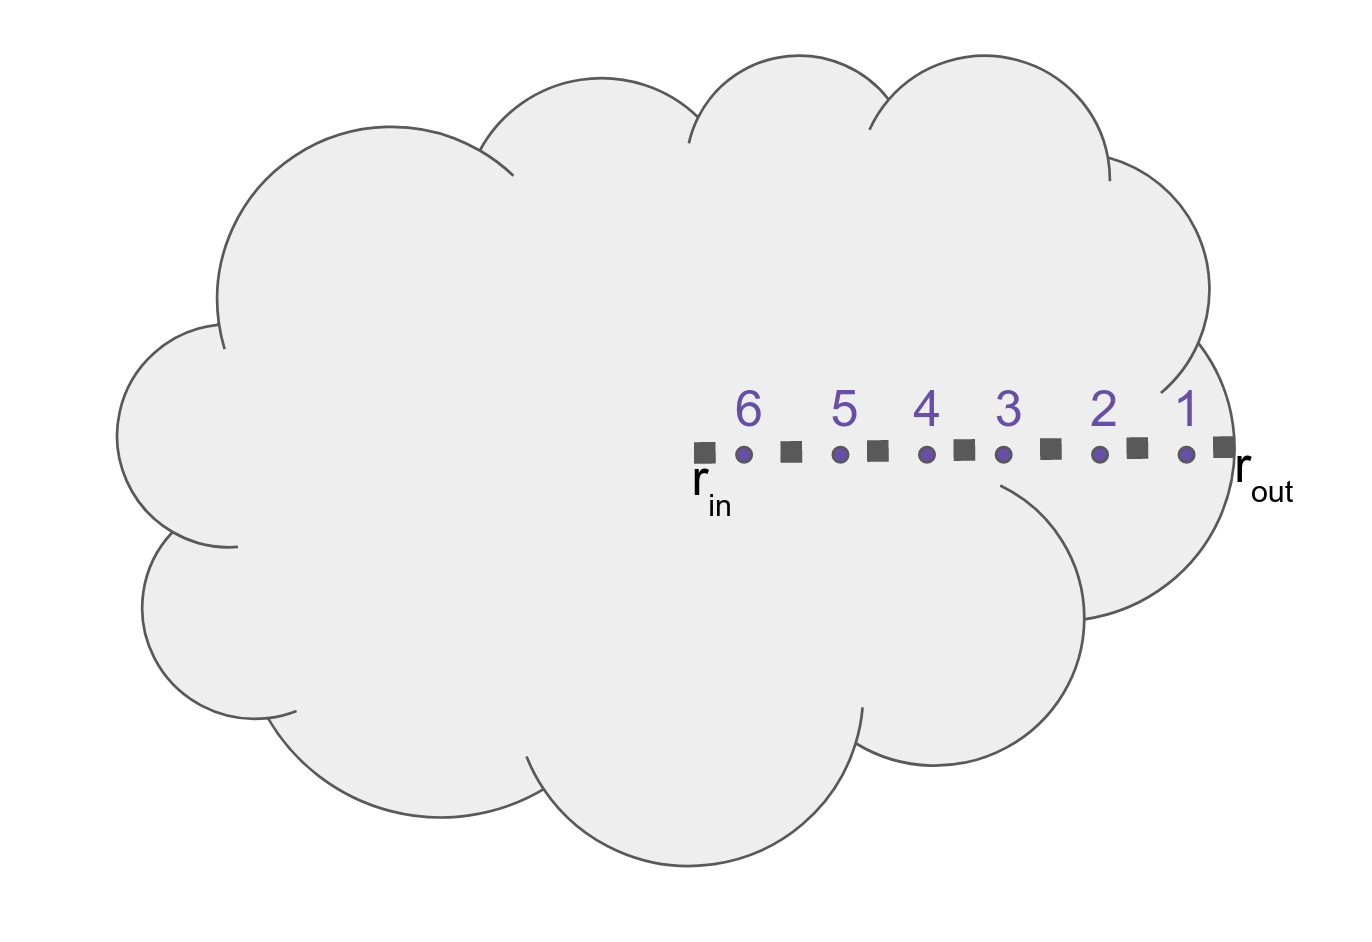
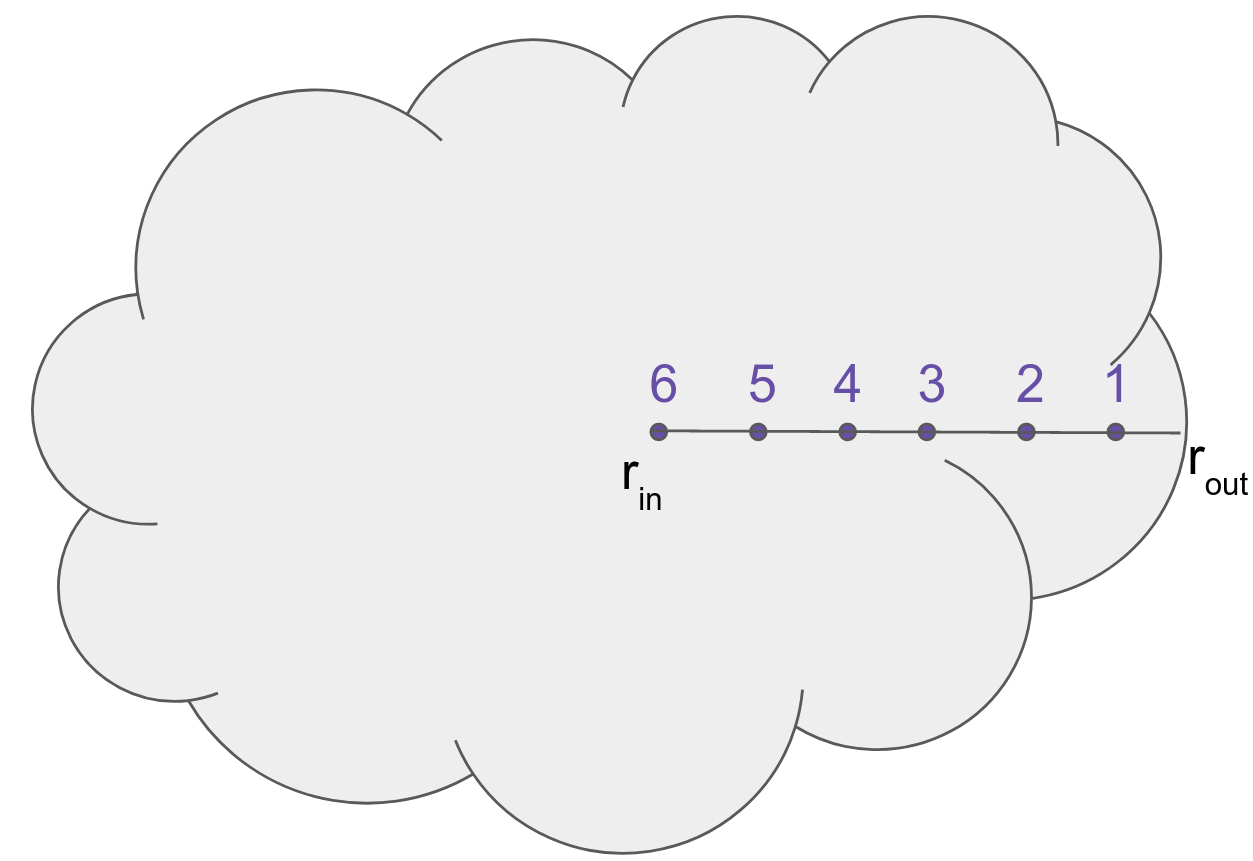
Monica updates

diff --git a/website/docs/physics-core.md b/website/docs/physics-core.md
@@ -6,11 +6,11 @@ title: Core Physics
 Each of the other physics doc pages details the specifics of a particular physics model. This one gives a general overview of the physics in UCLCHEM, including the core physics routines that are called for all models.
 
 ## Model dimensions
-Whilst it is most often used to model a single point, UCLCHEM is a 1D model. For most models, you provide the size of some cloud of gas (`rout`) and the number of positions along a 1D cut through this cloud you'd like to model (`points`). UCLCHEM then divides the cloud up into the required number of equally sized segments and then models a point at the centre of each segment. In the image below, the user has specified that they would like to model six points between some rin and rout. The space between the black squares are the six equally sized boxes that UCLCHEM splits the cloud into and the purple circles indicate the exact point where the chemistry is evaluated.
+Whilst it is most often used to model a single point, UCLCHEM is a 1D model. For most models, you provide the size of some cloud of gas (`rout`) and the number of positions along a 1D cut through this cloud you'd like to model (`points`). UCLCHEM then divides the cloud up into the required number of equally sized segments and then models a point at the inner edge of each segment. In the image below, the user has specified that they would like to model six points between some rin and rout. The cloud has been split into six segments and the dots indicate the exact position at which
 
 <img src="/img/cloud_points.png" width="600" margin-left="40%"/>
 
-The reason we have to specify the exact position of the "point" at which UCLCHEM evaluates the abundances is that it affects the column densities. We start our calculation at the edge (hence point 1 is closest to rout) and use half the width of a single box to calculate the column densities of H2, CO, and C as well as the total column density. This affects the photo-chemistry through UV attenuation and self-shielding. However, it is unlikely a user will model enough points to properly follow the UV chemistry in the low A$_V$ parts of the cloud, especially since the time dependent nature of the code means it could take some time. If a full 1D calculation becomes really important to you, you may wish to consider a more purpose built PDR solver such as [3D-PDR](https://uclchem.github.io/3dpdr).
+The reason we have to specify the exact position of the "point" at which UCLCHEM evaluates the abundances is that it affects the column densities. We start our calculation at the edge (hence point 1 is closest to rout) and use the width of a single segment to calculate the column densities of H2, CO, and C as well as the total column density. This affects the photo-chemistry through UV attenuation and self-shielding. However, it is unlikely a user will model enough points to properly follow the UV chemistry in the low A$_V$ parts of the cloud, especially since the time dependent nature of the code means it could take some time. If a full 1D calculation becomes really important to you, you may wish to consider a more purpose built PDR solver such as [3D-PDR](https://uclchem.github.io/3dpdr).
 
 A a result, we typically use UCLCHEM to model the cloud as a single point. Once we are far enough into the cloud that the A$_V$ is very high, the entire cloud tends to become homogenous in 1D models. Effectively, you can model the entire cloud with Av greater than about 5 as a single point and assume those abundances hold for the entire UV shielded region of the cloud. However, our 1D set up is useful for things like hot cores where the temperature and chemistry is really dominated by the central heating source, for which we treat the radial dependence quite well. You can then get a radial view of the chemistry with just a few points.
 

diff --git a/website/docs/modelling_objects.md b/website/docs/modelling_objects.md
@@ -54,11 +54,13 @@ param_dict["initialDens"]=1e6
 param_dict["finalTime"]=1e6
 param_dict["freefall"]=False
 
-#phase 2 never cools so freeze out should be negligible
-#can really speed integrator by just turning it off
-param_dict["freezeFactor"]=0 
+#freeze out is completely overwhelmed by thermal desorption
+#so turning it off has no effect on abundances but speeds up integrator.
+param_dict["freezeFactor"]=0.0
+
 param_dict["abstol_factor"]=1e-18
 param_dict["reltol"]=1e-12
+
 #pop is dangerous, it removes the original key so you can't rerun this cell.
 param_dict["abundLoadFile"]=param_dict.pop("abundSaveFile") 
 param_dict["outputFile"]="../examples/test-output/phase2-full.dat"
@@ -66,9 +68,11 @@ param_dict["outputFile"]="../examples/test-output/phase2-full.dat"
 result=uclchem.model.hot_core(temp_indx=3,max_temperature=300.0,param_dict=param_dict)
 ```
 
-Note that we've changed abstol and reltol here. They control the integrator accuracy and whilst making them smaller does slow down successful runs, it can make runs complete that stall completely otherwise. In this case, we found that when we didn't alter the defaults, the model completed but `uclchem.check_element_conservation()` showed C and O were not conserved. By reducing these tolerances, we were fix this as shown below.
+Note that we've changed made two changes to the parameters here which aren't strictly necessary but can be helpful in certain situations.
 
-If your model run does not complete, try running it in a python script rather the notebook. In notebooks, the fortran output is only printed when the function returns which may be never on a stalled run. In python scripts, the output is printed as the code is executed and you will see warnings if the integrator gets stuck.
+Since the gas temperature increases throughout a hot core model, freeze out is much slower than thermal desorption for all but the first few time steps. Turning it off doesn't affect the abundances but will speed up the solution.
+
+We also change abstol and reltol here, largely to demonstrate their use. They control the integrator accuracy and whilst making them smaller does slow down successful runs, it can make runs complete that stall completely otherwise or give correct solutions where lower tolerances allow issues like element conservation failure to sneak in. If your code does not complete or element conservation fails, you can change them.
 
 ### Checking the Result
 With a successful run, we can check the output. We first load the file and check the abundance conservation, then we can plot it up.

diff --git a/website/docs/start-pythonapi.md b/website/docs/start-pythonapi.md
@@ -255,12 +255,12 @@ Read the output of a UCLCHEM run created with the outputFile parameter into a pa
 def create_abundance_plot(df, species, figsize=(16, 9), plot_file=None)
 ```
 
-Create a plot of the abundance of a species through time.
+Create a plot of the abundance of a list of species through time.
 
 **Arguments**:
 
 - `df` _pd.DataFrame_ - Pandas dataframe containing the UCLCHEM output, see `read_output_file`
-- `species` _list_ - list of strings containing species names
+- `species` _list_ - list of strings containing species names. Using a $ instead of # or @ will plot the sum of surface and bulk abundances.
 - `figsize` _tuple, optional_ - Size of figure, width by height in inches. Defaults to (16, 9).
 - `plot_file` _str, optional_ - Path to file where figure will be saved. If None, figure is not saved. Defaults to None.
   
@@ -277,13 +277,13 @@ Create a plot of the abundance of a species through time.
 def plot_species(ax, df, species)
 ```
 
-Plot the abundance of species through time directly onto an axis
+Plot the abundance of a list of species through time directly onto an axis.
 
 **Arguments**:
 
 - `ax` _pyplot.axis_ - An axis object to plot on
 - `df` _pd.DataFrame_ - A dataframe created by `read_output_file`
-- `species` _str_ - A list of species names to be plotted. If species name starts with "$", plots the sum of surface and bulk abundances
+- `species` _str_ - A list of species names to be plotted. If species name starts with "$" instead of # or @, plots the sum of surface and bulk abundances
   
 
 **Returns**:

diff --git a/website/docs/start-network.md b/website/docs/start-network.md
@@ -6,7 +6,17 @@ title: Creating a Network
 ## MakeRates
 In order to make a chemical model flexible, the ability to solve a user supplied chemical network is a must. UCLCHEM uses a preprocessing python script to turn csv lists of species and reactions into fortran files for use in the main code. This script is called MakeRates and can be found in the Makerates subdirectory of the repository. It combines a gas phase reaction database with user supplied lists of species and additional reactions into the necessary Fortran code to run UCLCHEM. It also supplies a number of human readable outputs.
 
-**Any output from MakeRates requires that the code be recompiled, for python users that means re-running `pip install .` and for people working with the code directly, you need to `make` again.**
+In the sections below, we discuss how to build your network and set the inputs for MakeRates but once that is done, you can run MakeRates with the following commands:
+
+```bash
+cd MakeRates
+python MakeRates.py
+cd ..
+pip install .
+```
+
+**Note the pip install at the end of the process. Any output from MakeRates requires that the code be recompiled because MakeRates produces new source code for UCLCHEM!**
+
 
 ## Input
 Makerates is controlled using a yaml file `Makerates/user_settings.yaml`. By changing the values in this file, you can create different networks. The default values of this file are copied below.

diff --git a/website/docs/first_model.md b/website/docs/first_model.md
@@ -7,6 +7,18 @@ In this notebook, we demonstrate the basic use of UCLCHEM's python module by run
 import uclchem
 ```
 
+
+    ---------------------------------------------------------------------------
+
+    ModuleNotFoundError                       Traceback (most recent call last)
+
+    <ipython-input-1-280c7f35460d> in <module>
+    ----> 1 import uclchem
+    
+
+    ModuleNotFoundError: No module named 'uclchem'
+
+
 ## A Simple Cloud
 
 UCLCHEM's `cloud()` model is a spherical cloud of isothermal gas. We can keep a constant density or have it increase over time following a freefall equation. This model is generally useful whenever you want to model a homogeneous cloud of gas under constant conditions. For example, in the inner parts of a molecular cloud where Av $\gtrsim$ 10 there are very few depth dependent processes. You may wish to model the whole of this UV shielded portion of the cloud with a single `cloud()` model.
@@ -35,7 +47,7 @@ print(result)
 
 ```
 
-    [1, 3.331065687401522e-11, 3.576305611194068e-05]
+    [1, 3.331065659699488e-11, 3.576305642378658e-05]
 
 
 ## Checking the output

diff --git a/website/docs/start-basicuse.md b/website/docs/start-basicuse.md
@@ -20,7 +20,7 @@ In order to compile UCLCHEM, you will simply need to do the folowing from the ma
 ```bash
 pip install .
 ```
-This will install the UCLCHEM library into your python environment, you can then import it and use it in your python scripts. If you get an error at this stage, it is very likely you do not have Cmake or gfortran installed. You must do this again every time you use [Makerates](/docs/network)
+This will install the UCLCHEM library into your python environment, you can then import it and use it in your python scripts. If you get an error at this stage, it is very likely you do not have Cmake or gfortran installed. You must do this again every time you use [Makerates](/docs/network).
 
 If it completes without error then, that's it! UCLCHEM is installed. We have tutorials on how to [run your first model](/docs/first_model) as well as more complex use cases. The rest of the 'Getting Started' section focuses on creating a network and the various parameters the user can control. 
 

diff --git a/website/docs/trouble-compile.md b/website/docs/trouble-compile.md
@@ -19,3 +19,16 @@ Exception has occurred: ImportErrordlopen(/usr/local/lib/python3.9/site-packages
 ```
 then this is likely what has happened to you. You can fix it by following the instructions in this[this Stackoverflow post](https://stackoverflow.com/questions/57207357/dyld-library-not-loaded-usr-local-gfortran-lib-libgfortran-3-dylib-reason-im). 
 
+## Architectures
+F2PY defaults to x86_64 architecture. This is fine for most users, but if you are using a different architecture, you may need to specify this in the Makefile. To do so, edit `src/fortran_src/Makfile` so that the line that reads
+
+```
+python3 -m numpy.f2py -c --fcompiler=${f2pyFC}
+```
+is replaced with
+
+```
+python3 -m numpy.f2py -c --fcompiler=${f2pyFC} --arch=my_arch
+```
+
+where my_arch is the architecture you are using.
